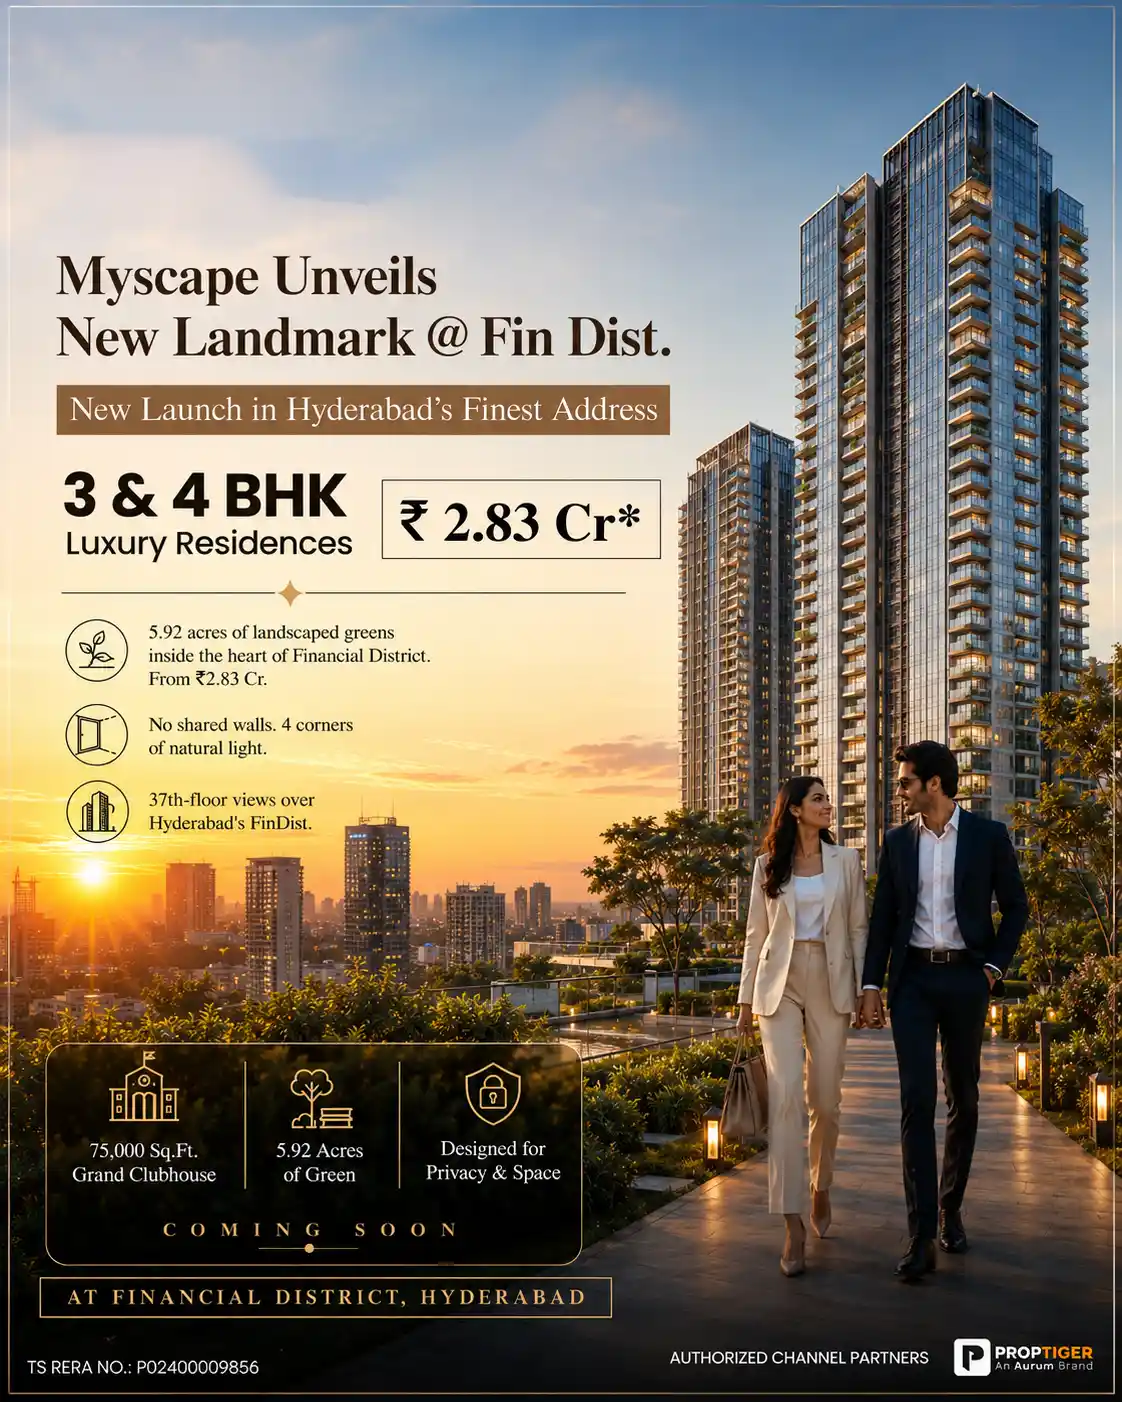
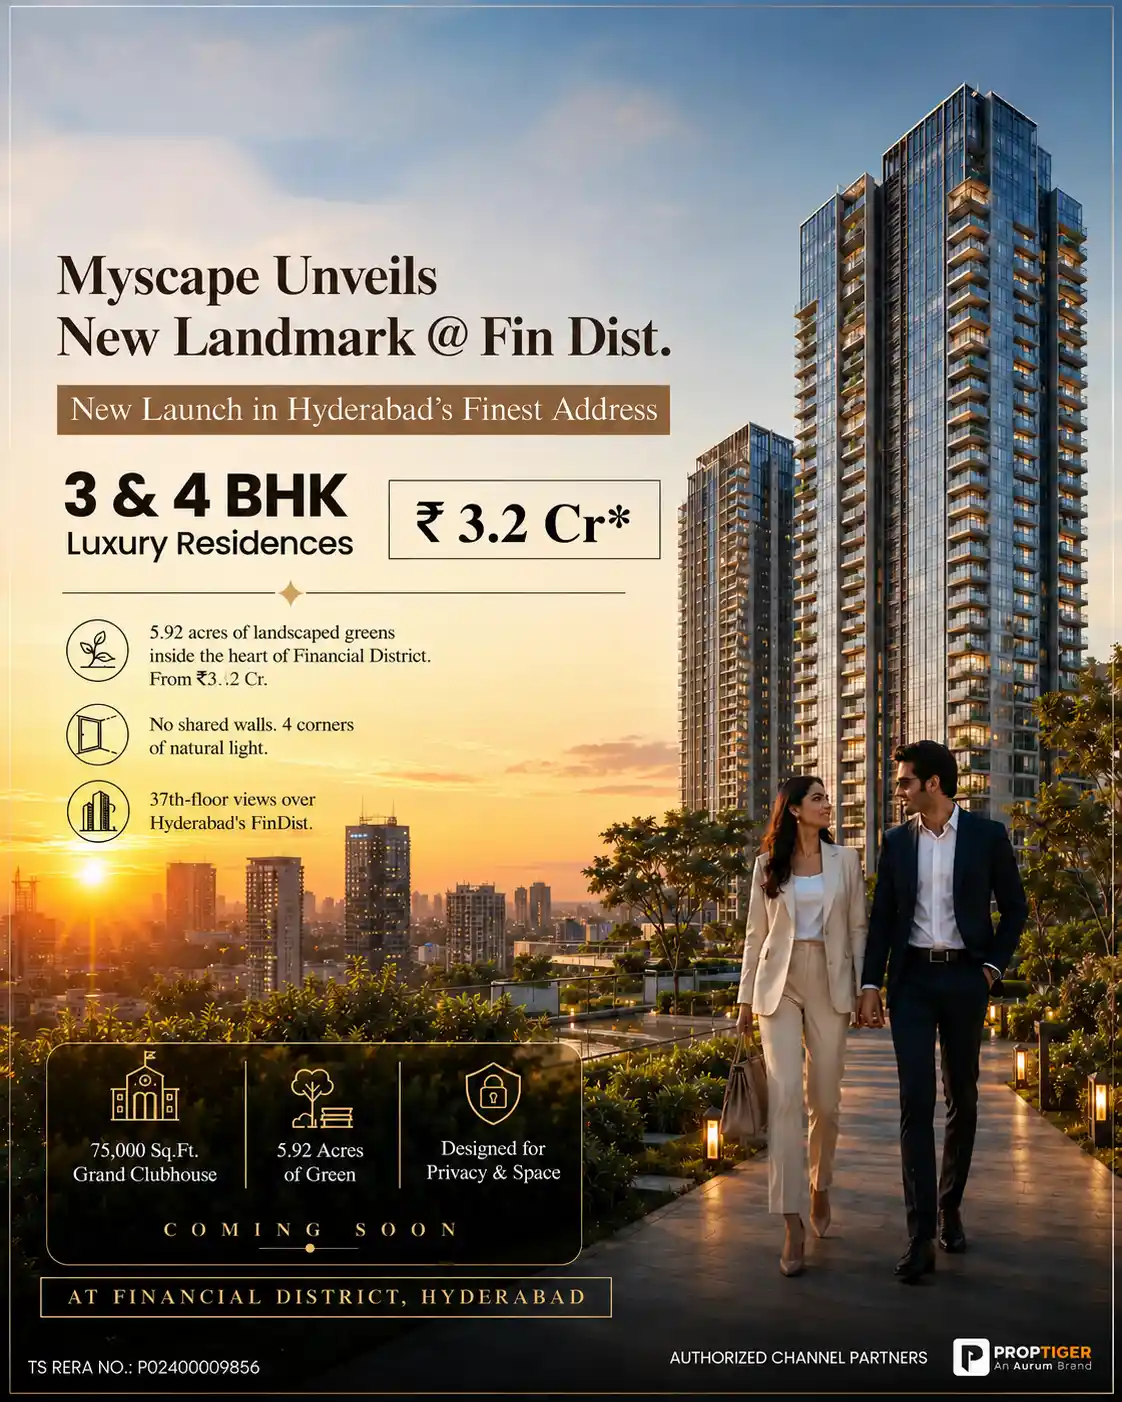
Update property prices across components and replace images

diff --git a/components/Footer.jsx b/components/Footer.jsx
@@ -21,7 +21,7 @@ const Footer = () => (
       </div>
       <p style={{ fontSize: '15px', color: '#bbb', fontFamily: F_SANS, lineHeight: 1.8, marginBottom: '24px', textAlign: 'justify' }}
         data-aos="fade-in" data-aos-delay="100">
-        Songs of the Sun is South Hyderabad&apos;s premier luxury high-rise residential development in Financial District, offering premium 3 &amp; 4 BHK residences starting from ₹2.83 Cr*. Thoughtfully curated amenities, iconic skyline views, advanced security, and smart home features — Songs of the Sun is designed for those who demand the extraordinary.
+        Songs of the Sun is South Hyderabad&apos;s premier luxury high-rise residential development in Financial District, offering premium 3 &amp; 4 BHK residences starting from ₹3.2 Cr*. Thoughtfully curated amenities, iconic skyline views, advanced security, and smart home features — Songs of the Sun is designed for those who demand the extraordinary.
       </p>
       
       {/* RERA Block */}

diff --git a/components/Hero.jsx b/components/Hero.jsx
@@ -395,7 +395,7 @@ const Hero = ({ setIsOpen }) => {
             className="btn-gold-outline hero-btn-one"
             style={{ fontSize: '15px', padding: '11px 22px', pointerEvents: 'none', fontWeight: '700', textTransform: 'none' }}
           >
-            Price starts <span className="hero-price-amt" style={{ fontSize: '16px', marginLeft: '6px' }}>₹ 2.83 Cr*</span>
+            Price starts <span className="hero-price-amt" style={{ fontSize: '16px', marginLeft: '6px' }}>₹ 3.2 Cr*</span>
           </div>
 
           {/* Button 2 — Popup Trigger (global btn-brand) */}

diff --git a/components/StatsBar.jsx b/components/StatsBar.jsx
@@ -1,6 +1,6 @@
 const stats = [
   { value: '2',    label: 'Configuration Types' },
-  { value: '₹2.83Cr', label: 'Starting Price' },
+  { value: '₹3.2Cr', label: 'Starting Price' },
   { value: 'TS RERA', label: 'Registered Project' },
   { value: '2028', label: 'Expected Possession' },
 ]

diff --git a/components/Pricing.jsx b/components/Pricing.jsx
@@ -8,7 +8,7 @@ const units = [
   {
     type: "3 BHK Residences",
     size: "2900 sq.ft.",
-    price: "₹ 2.83 Cr*",
+    price: "₹ 3.2 Cr*",
     oldPrice: null,
     btnText: "Get Details",
     features: [
